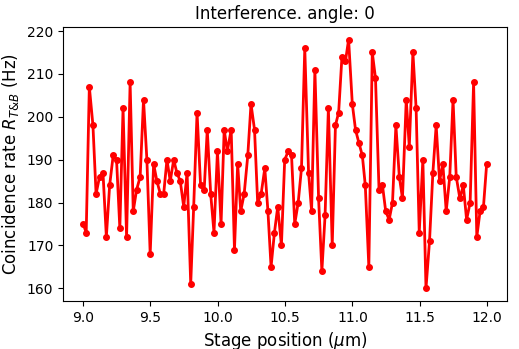
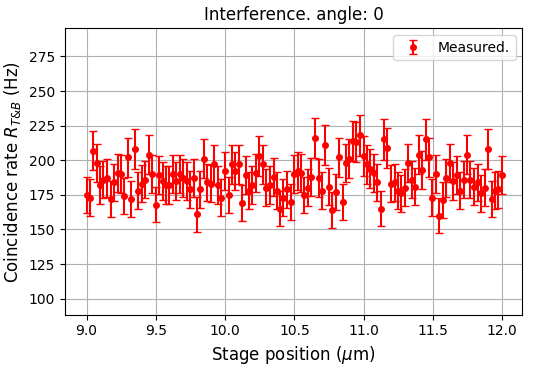
update

diff --git a/project.py b/project.py
@@ -22,14 +22,17 @@ def SNR_plots():
     ylabels = [r"$R_{T&B}$ (Hz)", "$R_{acc}$ (Hz)", "SNR"]
     titles = ["Coincidence rates", "Accidental coincidences", "Signal-to-noise ratio"]
     colors = ["tab:blue", "tab:orange", "tab:purple"]
+    
 
     for i, list in enumerate([coincidences, accidentals, SNR]):
         plt.figure()
-        plt.plot(tau, list, "o", color=colors[i], ms=6)
-        plt.plot(tau, list, "-", color=colors[i], lw=3)
-        plt.xlabel(r"Coincidence window $\tau$ (ns)",size=12)
-        plt.ylabel(ylabels[i],size=12)
-        plt.title(titles[i], size=12)
+        #plt.plot(tau, list, "o", color=colors[i], ms=6)
+        #plt.plot(tau, list, "-", color=colors[i], lw=2)
+        err = np.sqrt(np.array(list))
+        plt.errorbar(tau, list, yerr=err, fmt="o", color=colors[i], capsize=6, elinewidth=2, ms=6)
+        plt.xlabel(r"Coincidence window $\tau$ (ns)",size=14)
+        plt.ylabel(ylabels[i],size=14)
+        plt.title(titles[i], size=14)
         plt.grid(True)
         plt.tight_layout()
     
@@ -55,8 +58,9 @@ def coherence_plot():
                     continue
                 stage_positions.append(get_val(row, 0) + dx)
                 coincidences.append(get_val(row, 1))
+    err = np.sqrt(np.array(coincidences))
     plt.figure()
-    plt.plot(stage_positions, coincidences, "bo", ms=2)
+    plt.errorbar(stage_positions, coincidences, yerr=err, fmt="o", color="tab:blue", ms=2, capsize=1)
     plt.ylabel(r"Coincidence rates $R_{T&B}$ (Hz)",size=12)
     plt.xlabel(r"Stage position ($\mu$m)",size=12)
     plt.title("Estimating coherence length",size=12)
@@ -77,20 +81,27 @@ def interference():
     
     plt.figure()
     
+    err = np.sqrt(np.array(coincidences))
 
     def fit(x, a, b, c, d):
         return a * np.sin(b*x + c) + d
     p0 = [1000, 2*np.pi/0.4, 0, 1400]
     par, parcov = curve_fit(f=fit, xdata=stage_positions, ydata=coincidences, p0=p0)
     x = np.linspace(np.min(stage_positions), np.max(stage_positions), 2000)
-    y = par[0] * np.sin(par[1]*x + par[2]) + par[3]
+    a,b,c,d=par
+    y = fit(x,a,b,c,d)
     
-    
-    plt.plot(stage_positions, coincidences, "ro", ms=4)
+    plt.errorbar(stage_positions, coincidences, yerr=err, color="r", ms=3, fmt="o", capsize=3)
     plt.plot(x, y, "-", color="tab:blue", lw=2)
 
+    # Chi2
+    pos = np.array(stage_positions)
+    ndof = len(pos) - len(par)
+    diff2 = np.square(np.array(coincidences) - fit(pos,a,b,c,d))
+    var = err**2
+    chi2 = np.sum(diff2/var) / ndof
 
-    plt.legend(["Measured", rf"Fitted: $\Delta L = {round(2*np.pi/par[1], 4)} \mu$m"], loc=1)
+    plt.legend([rf"Fitted: $\Delta L = {round(2*np.pi/par[1], 3)} \mu$m. $\chi^2$/ndof={round(chi2,3)}", "Measured"], loc=1)
     plt.xlabel(r"Stage position ($\mu$m)", size=12)
     plt.ylabel(r"Coincidence rate $R_{T&B}$ (Hz)",size=12)
     plt.title("Single photon interference", size=12)
@@ -108,8 +119,10 @@ def time_delay():
                 continue
             dt.append(get_val(row, 0))
             coincidences.append(get_val(row, 2))
+    err = np.sqrt(np.array(coincidences))
     plt.figure()
-    plt.plot(dt, coincidences, "r-", lw=2)
+    plt.errorbar(dt, coincidences, yerr=err, color="r", fmt="o", ms=5, capsize=3)
+    plt.legend([r"Measured. $\sigma = \sqrt{R_{T&B}}$"])
     plt.title("Delay adjust", size=12)
     plt.xlabel(r"Time delay $\Delta$t (ns)", size=12)
     plt.ylabel(r"Coincidence rates $R_{T&B}$ (Hz)", size=12)
@@ -137,16 +150,37 @@ def ryans_plots():
                     continue
                 pos.append(get_val(row, 0))
                 coincidences.append(get_val(row, 1))
+        err = np.sqrt(coincidences)
         plt.figure()
-        plt.plot(pos, coincidences, "r-", lw=2)
-        plt.plot(pos, coincidences, "ro", ms=4)
+        #plt.plot(pos, coincidences, "r-", lw=2)
+        plt.errorbar(pos, coincidences, yerr=err, color="red", fmt="o", ms=4, capsize=3)
+        plt.grid(True)
         plt.xlabel(r"Stage position ($\mu$m)", size=12)
         plt.ylabel(r"Coincidence rate $R_{T&B}$ (Hz)",size=12)
         plt.title(titles[i], size=12)
         plt.tight_layout()
+
+
+        p0list=["X", [200, 2*np.pi/0.4, 0, 200], [200, 2*np.pi/0.4, 0, 200], "X", [400, 2*np.pi/0.4, 0, 280]]
+        if i in [1,2,4]:
+            def sin(x, a, b, c, d):
+                return a*np.sin(b*x+c)+d
+            p0 = p0list[i]
+            par, cov = curve_fit(sin, pos, coincidences, p0=p0, sigma=err, absolute_sigma=True)
+            x = np.linspace(np.min(pos), np.max(pos), 2000)
+            a,b,c,d = par
+            y = sin(x,a,b,c,d)
+            diff2 = np.square(np.array(coincidences) - sin(np.array(pos),a,b,c,d))
+            ndof = len(pos) - len(par)
+            chi2 = np.sum(diff2/err**2) / ndof
+            plt.plot(x, y, color="tab:blue", lw=2)
+            plt.legend([fr"Fitted. $\chi^2$/ndof={round(chi2,3)}", "Measured."], loc=1)
+        else:
+            plt.legend(["Measured."])
     plt.show()
 
 def visibility():
+    plt.figure()
     stage_positions = []
     max_rates = []
     min_rates = []
@@ -162,27 +196,46 @@ def visibility():
     min_rates = np.array(min_rates)
     visibility = (max_rates - min_rates) / (max_rates + min_rates)
 
-    def sinc2(x, A, k, x0):
+    dV = np.sqrt(4*(min_rates**2)*max_rates + 4*(max_rates**2)*min_rates) / (max_rates + min_rates)**2
+    plt.errorbar(stage_positions, visibility, yerr=dV, fmt="o", ms=4, capsize=3, color="red")
+
+
+    # Fit function
+    def sinc(x, A, k, x0):
         u = k * (x - x0)
         return np.abs( A * np.sinc(u / np.pi) )
+
+    def sinc2(x, A, k, x0):
+        u = k * (x - x0)
+        return A * np.sinc(u / np.pi) ** 2
 
     # Initial guess
     p0 = [0.83915639, 0.07153448, -12.09393824]
 
-    param, param_cov = curve_fit(f=sinc2, xdata=stage_positions, ydata=visibility, p0=p0)
-    print(param)
+    par_sinc, _cov = curve_fit(f=sinc, xdata=stage_positions, ydata=visibility, p0=p0)
+    par_sinc2, _cov2 = curve_fit(f=sinc2, xdata=stage_positions, ydata=visibility, p0=p0)
     
-    plt.figure()
-    
-    plt.plot(stage_positions, visibility, "o", color="tab:blue", ms=6)
-
-
     x = np.linspace(-80,60,5000)
-    u = param[1] * (x - param[2])
-    y = np.abs(param[0] * np.sinc(u / np.pi))
-    plt.plot(x, y, "-", color="tab:orange", lw=2)
+    A, k, x0 = par_sinc
+    A2, k2, x02 = par_sinc2
+    y = sinc(x, A, k, x0)
+    y2 = sinc2(x, A2, k2, x02)
+    plt.plot(x, y, "--", color="tab:blue", lw=4)
+    plt.plot(x, y2, "--", color="tab:orange", lw=2)
 
-    y_thresh = np.max(y)/np.e
+    # Chi2:
+    pos = np.array(stage_positions)
+    var = dV**2
+    diff2 = np.square(visibility - sinc(pos,A,k,x0))
+    ndof = len(pos) - len(par_sinc)
+    chi2 = np.sum(diff2/var) / ndof
+
+    diff_sinc2 = np.square(visibility - sinc2(pos, A2, k2, x02))
+    ndof_sinc2 = len(pos) - len(par_sinc2)
+    chi2_sinc2 = np.sum(diff_sinc2/var) / ndof_sinc2
+
+    # Coherence length
+    y_thresh = np.max(y)/2
     points = []
     for i in range(1, len(y)):
         if (y[i] - y_thresh)*(y[i-1] - y_thresh) < 0:
@@ -197,14 +250,14 @@ def visibility():
     plt.ylabel("Visibility",size=12)
     plt.title("Visibility plot",size=12)
     plt.tight_layout()
-    plt.legend(["Measured", "Fitted", rf"$l_c={round(l_c,2)} \mu m$"])
+    plt.legend([rf"|sinc| $\chi^2$/ndof={round(chi2,3)}", rf"sinc2. $\chi^2$/ndof={round(chi2_sinc2,3)}", rf"$l_c={round(l_c,2)} \mu m$","Measured"], loc=1)
     plt.show()
 
     
 if __name__ == "__main__":
-    #SNR_plots()
+    #time_delay()
+    SNR_plots()
     #coherence_plot()
     #interference()
-    #time_delay()
     #ryans_plots()
-    visibility()
+    #visibility()
